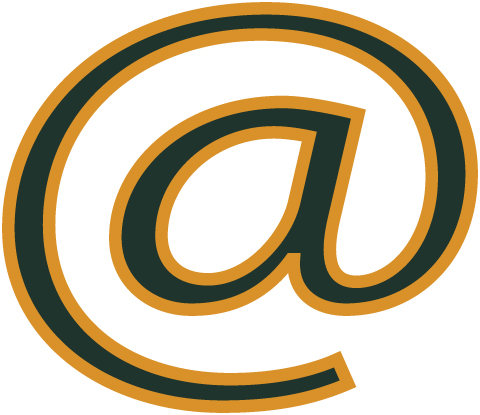
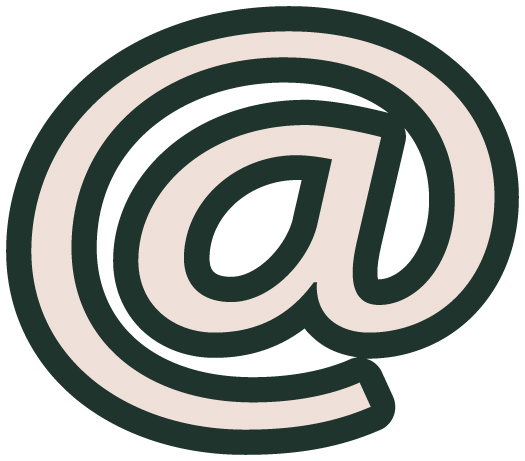
updated images

diff --git a/index.HTML b/index.HTML
@@ -4,7 +4,7 @@
     <meta charset="UTF-8" />
     <meta name="viewport" content="width=device-width, initial-scale=1">
     <link rel="stylesheet" href='./assets/CSS/style.css'>
-    <link rel="shortcut icon" type="image/jpg" href="./assets/Images/ATCODING.jpg" title="ATCODING">
+    <link rel="shortcut icon" type="image/jpg" href="./assets/Images/ATCODING.png" title="ATCODING">
     <title>Anthony Tropeano</title>
   </head>
   <body>
